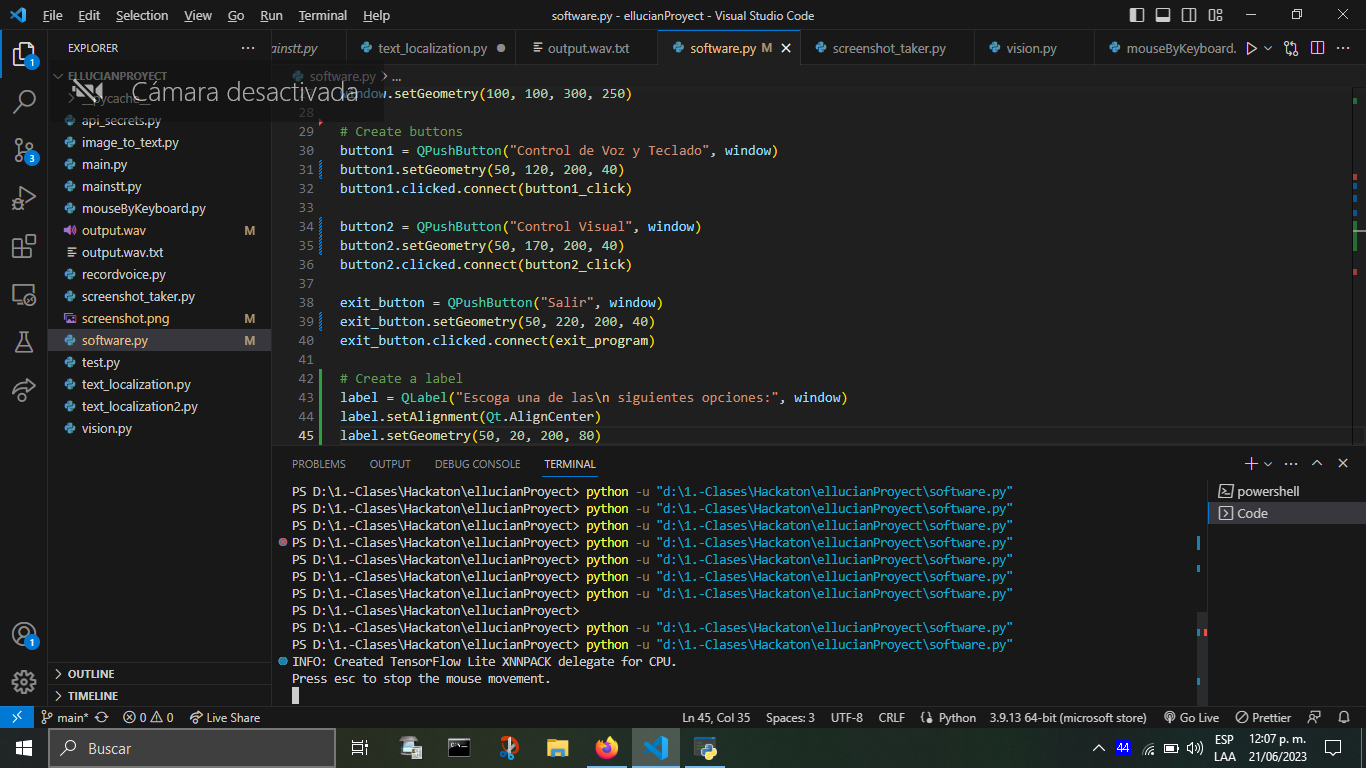
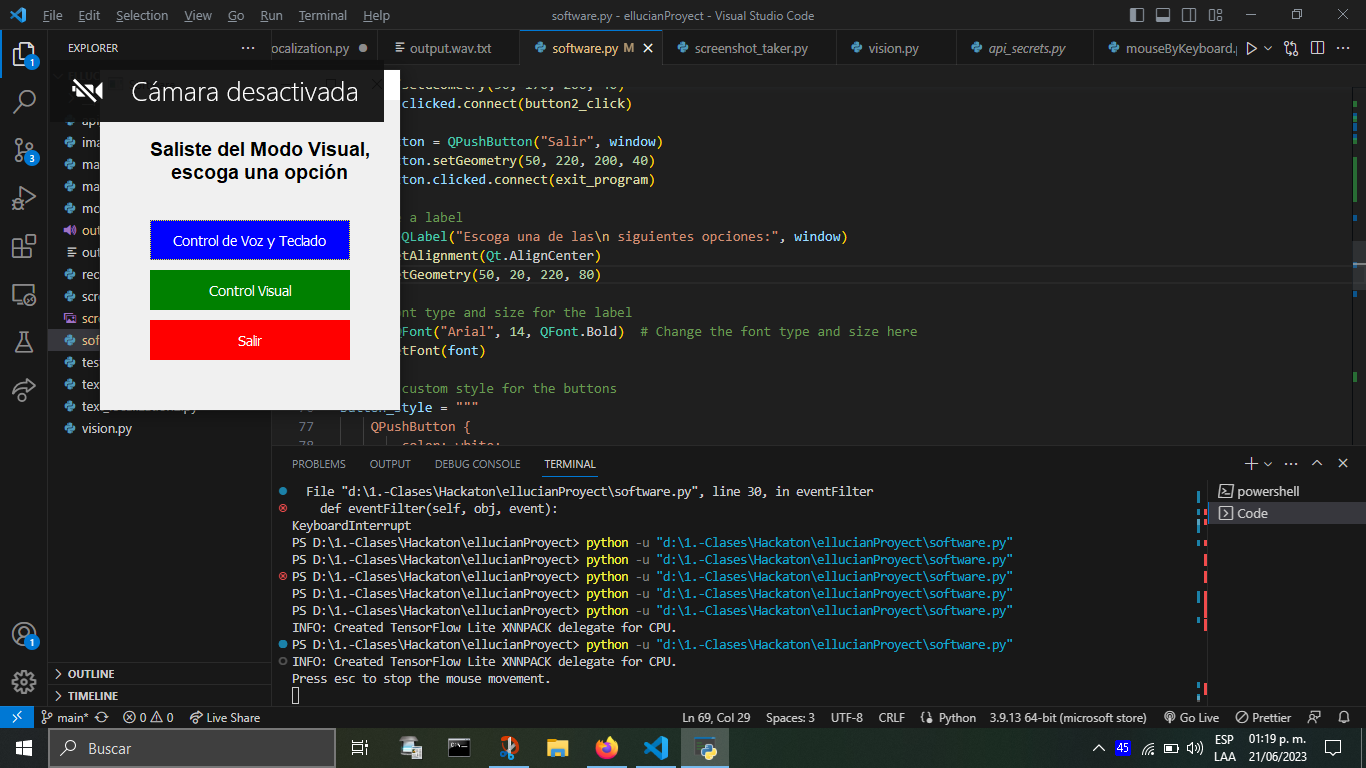
Version final

diff --git a/software.py b/software.py
@@ -4,19 +4,43 @@ import main
 from PyQt5.QtWidgets import QApplication, QMainWindow, QPushButton, QLabel
 from PyQt5.QtGui import QFont
 from PyQt5.QtCore import Qt
+from PyQt5.QtCore import QEvent, QObject
+
 
 def button1_click():
     try:
-        main.start()
+      main.start()
+      label.setText("Saliste del Modo Voz,\nescoga una opción")
     except KeyboardInterrupt:
-        print("Saliste del Modo")
+        print("Saliste del Modo Voz")
+        label.setText("Saliste del Modo Voz,\nescoga una opción")
+
 
 def button2_click():
-    vision.facial_tracking()
+   vision.facial_tracking()
+   label.setText("Saliste del Modo Visual,\nescoga una opción")
+
 
 def exit_program():
     # Close the application
     app.quit()
+
+
+class ButtonPressFilter(QObject):
+    def eventFilter(self, obj, event):
+        if event.type() == QEvent.KeyPress:
+            key = event.key()
+            if key == Qt.Key_1:
+                button1.click()
+                return True
+            elif key == Qt.Key_2:
+                button2.click()
+                return True
+            elif key == Qt.Key_3:
+                exit_button.click()
+                return True 
+        return super().eventFilter(obj, event)
+
 
 # Create the application
 app = QApplication([])
@@ -24,7 +48,7 @@ app = QApplication([])
 # Create a main window
 window = QMainWindow()
 window.setWindowTitle("Software")
-window.setGeometry(100, 100, 300, 250)
+window.setGeometry(100, 100, 300, 310)
 
 # Create buttons
 button1 = QPushButton("Control de Voz y Teclado", window)
@@ -42,7 +66,7 @@ exit_button.clicked.connect(exit_program)
 # Create a label
 label = QLabel("Escoga una de las\n siguientes opciones:", window)
 label.setAlignment(Qt.AlignCenter)
-label.setGeometry(50, 20, 200, 80)
+label.setGeometry(50, 20, 220, 80)
 
 # Set font type and size for the label
 font = QFont("Arial", 14, QFont.Bold)  # Change the font type and size here
@@ -53,7 +77,7 @@ button_style = """
     QPushButton {
         color: white;
         font-size: 14px;
-        border-radius: 5px;
+        border-radius: 30px;
         border: none;
     }
     QPushButton#button1 {
@@ -82,6 +106,10 @@ exit_button.setObjectName("exit_button")
 button1.setStyleSheet(button_style)
 button2.setStyleSheet(button_style)
 exit_button.setStyleSheet(button_style)
+
+# Install the event filter to the application
+button_press_filter = ButtonPressFilter()
+app.installEventFilter(button_press_filter)
 
 # Show the window
 window.show()
